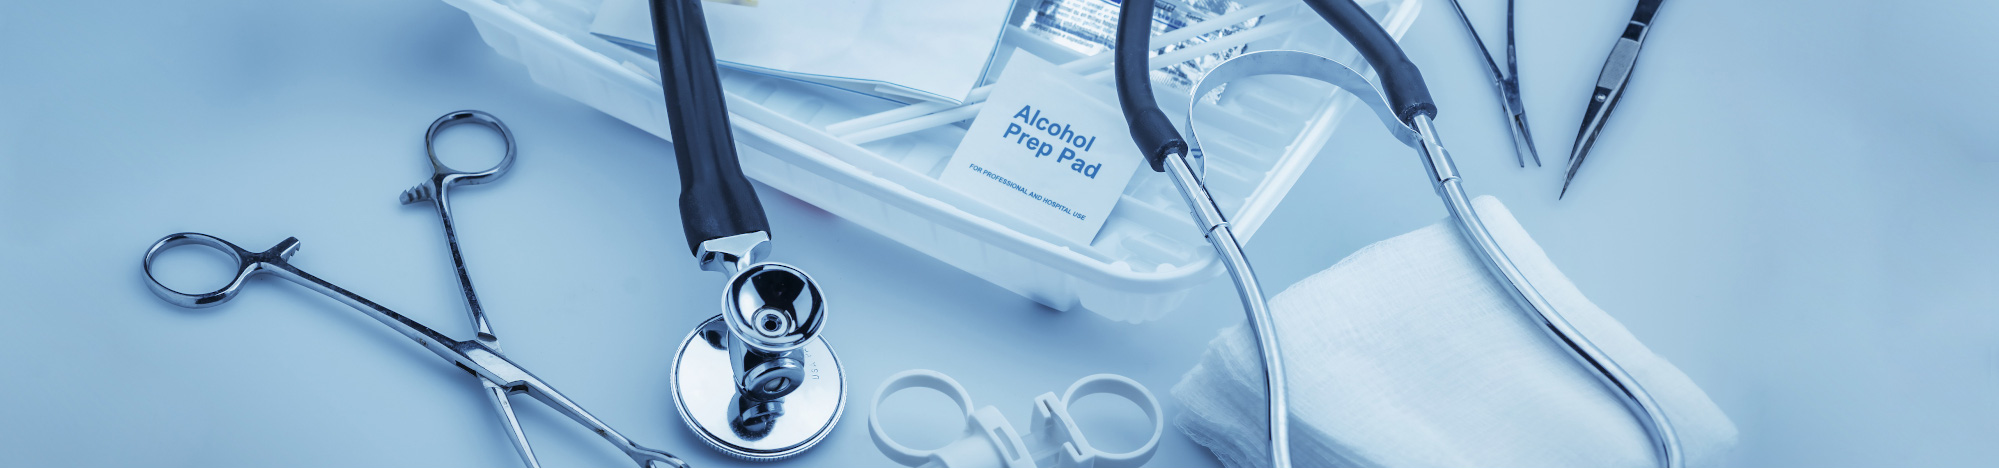
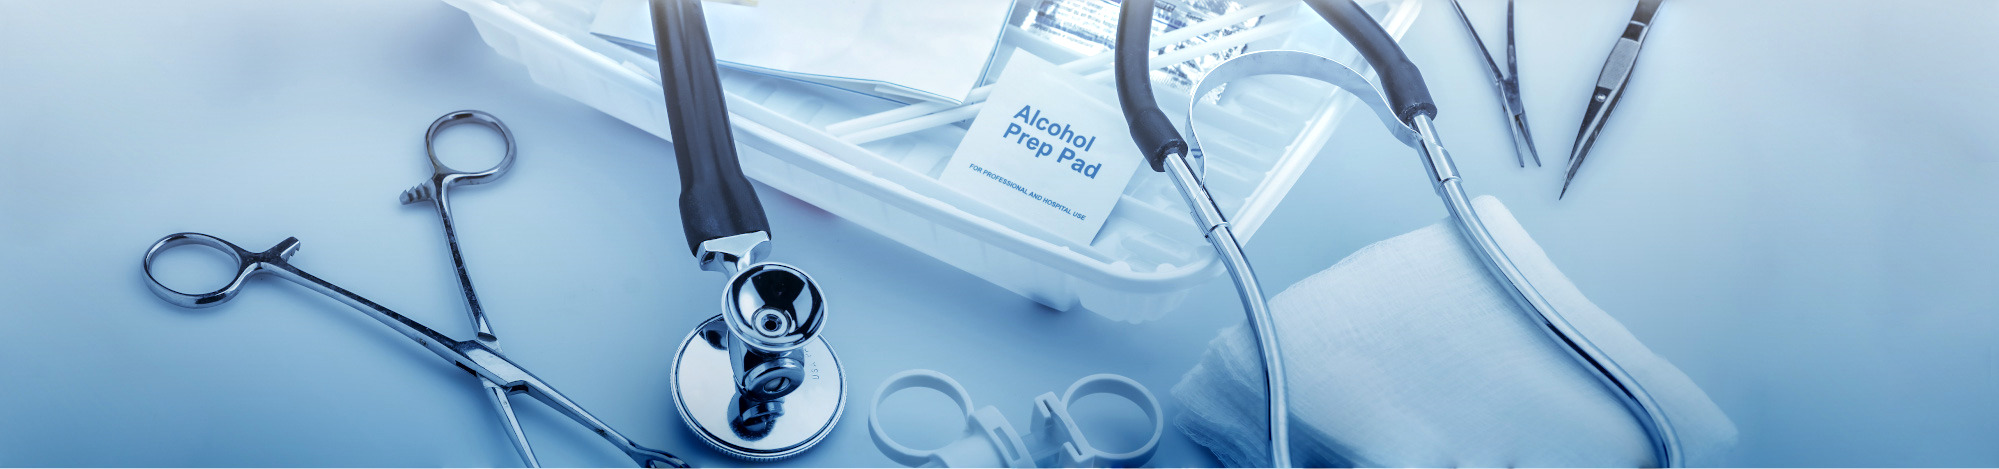
Сделал шапку без стыков и добавил фон для страницы

diff --git a/src/App.css b/src/App.css
@@ -10,6 +10,8 @@
 
 body {
 	margin: 0;
+	background-image: url(material/background.jpg);
+	background-repeat: repeat;
 }
 
 header {
@@ -17,7 +19,7 @@ header {
     letter-spacing: 5px;
     height: 10em;
     padding: 2em 5%;
-    background-image: url(material/header.jpg);
+    background-image: url(material/header.jpg);	 
     color: #04396C;
 	 font: 24pt bold;
 
